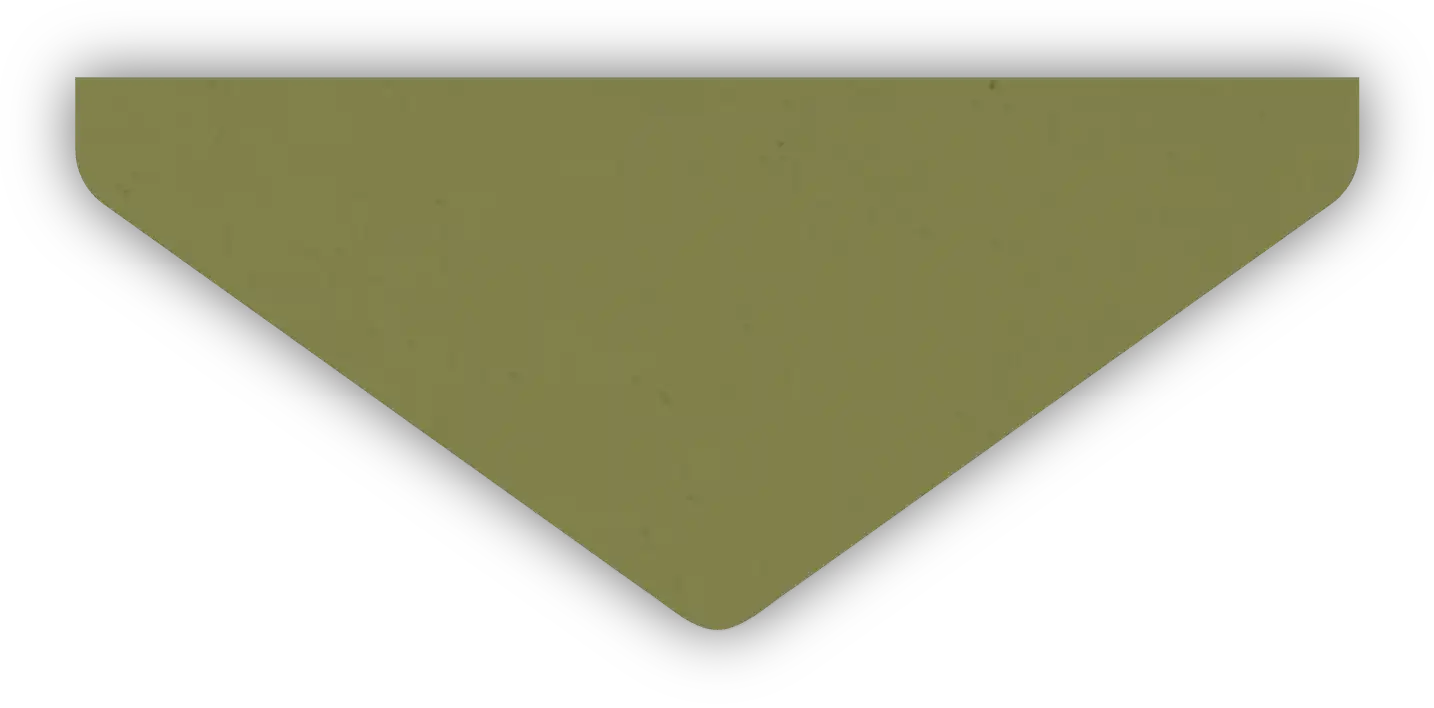
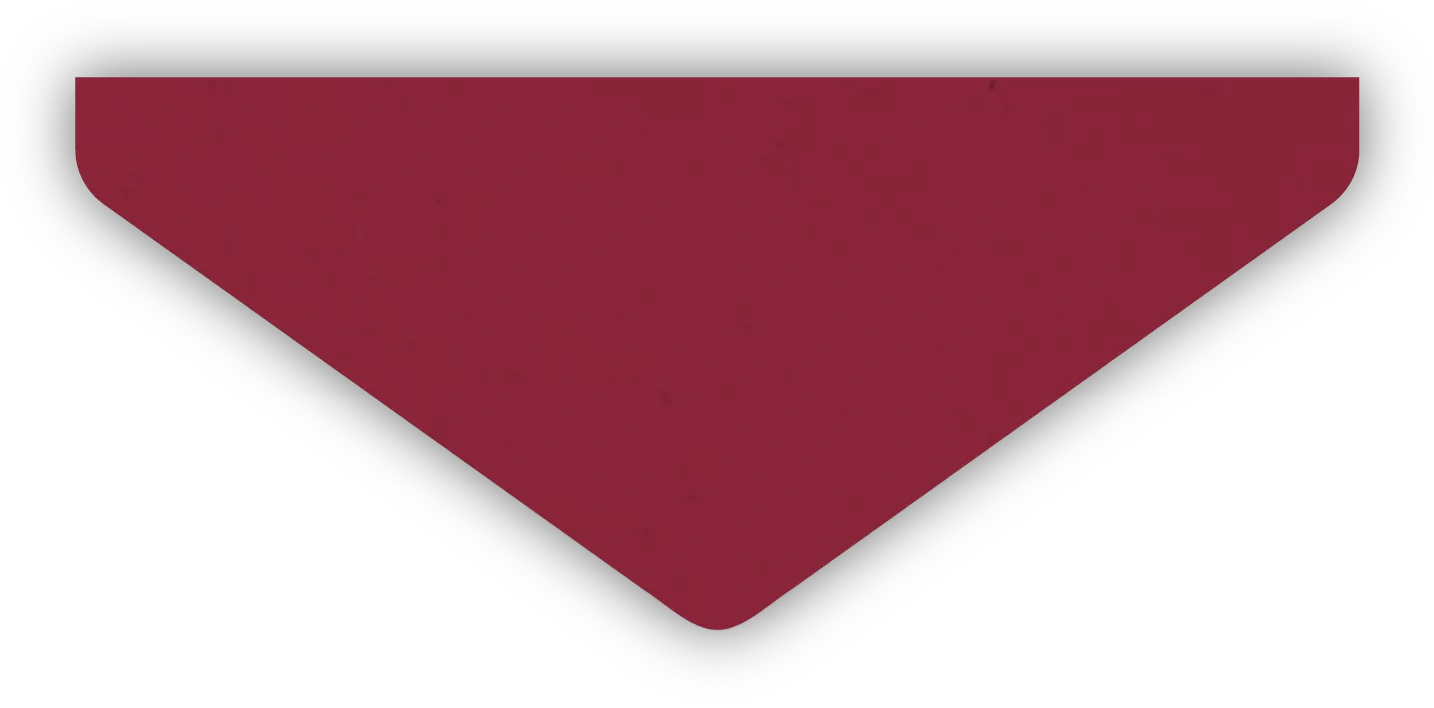
feat(theme): change green background to light wine gradient and recolor 3D envelope to red compatible with #4A1221

diff --git a/src/styles/theme.css b/src/styles/theme.css
@@ -40,7 +40,7 @@ html {
   -webkit-text-size-adjust: 100%;
 }
 
-/* FONDO GENERAL: TRANSICIÓN SUAVE CONTINUA DEL BLANCO AL VERDE CLARO SECUNDARIO */
+/* FONDO GENERAL: TRANSICIÓN SUAVE CONTINUA DEL BLANCO A TONO #4A1221 MÁS CLARO */
 body {
   margin: 0;
   padding: 0;
@@ -49,18 +49,18 @@ body {
     180deg,
     #FFFFFF 0px,
     #FFFFF1 50vh,
-    #FAFBF6 70vh,
-    #F3F6EC 85vh,
-    #E8EDE0 94vh,
-    #D9E2CE 100vh,
-    #CAD6BC 112vh,
-    #BAC8AA 130vh,
-    #A9B997 160vh,
-    #9BAA86 215vh,
-    #8E9D78 280vh,
-    #98A681 350vh,
-    #A7B591 430vh,
-    #B5C2A0 100%
+    #FAF2F4 70vh,
+    #F4E2E6 85vh,
+    #EACCD3 94vh,
+    #DEB4BE 100vh,
+    #D09CA8 112vh,
+    #C18392 130vh,
+    #B06D7D 160vh,
+    #9E5667 215vh,
+    #8C4052 280vh,
+    #9E5667 350vh,
+    #B26E7E 430vh,
+    #C58796 100%
   );
   background-attachment: scroll;
   color: var(--color-text-main);
@@ -77,18 +77,18 @@ body {
     180deg,
     #FFFFFF 0px,
     #FFFFF1 50vh,
-    #FAFBF6 70vh,
-    #F3F6EC 85vh,
-    #E8EDE0 94vh,
-    #D9E2CE 100vh,
-    #CAD6BC 112vh,
-    #BAC8AA 130vh,
-    #A9B997 160vh,
-    #9BAA86 215vh,
-    #8E9D78 280vh,
-    #98A681 350vh,
-    #A7B591 430vh,
-    #B5C2A0 100%
+    #FAF2F4 70vh,
+    #F4E2E6 85vh,
+    #EACCD3 94vh,
+    #DEB4BE 100vh,
+    #D09CA8 112vh,
+    #C18392 130vh,
+    #B06D7D 160vh,
+    #9E5667 215vh,
+    #8C4052 280vh,
+    #9E5667 350vh,
+    #B26E7E 430vh,
+    #C58796 100%
   );
   background-attachment: scroll;
 }
